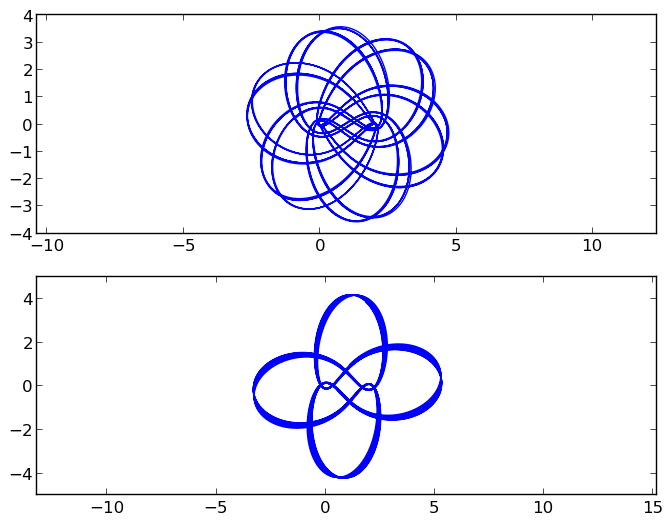
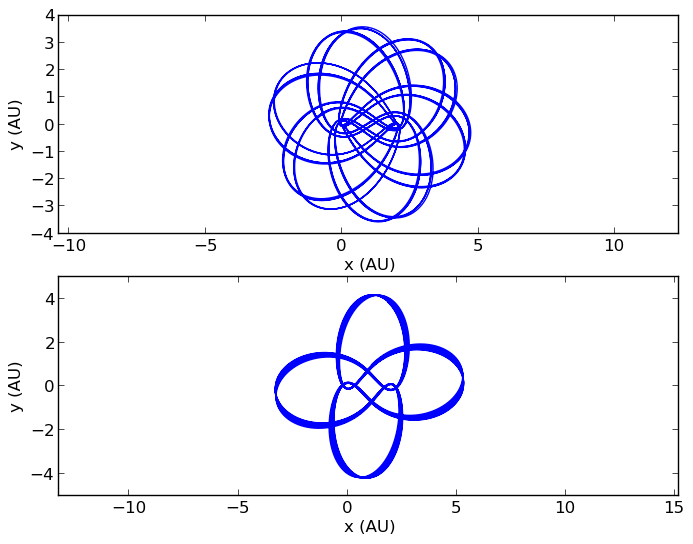
updated the plot labels

Changed region(s): [[0.0, 0.0, 0.9836, 0.979]]

diff --git a/Python-ODE-Int-NBody/two_planets.py b/Python-ODE-Int-NBody/two_planets.py
@@ -34,8 +34,8 @@ def main():
     # Plot the orbits
     plt.subplot(311)
     plt.axis("equal")
-    ut.plt2dcmpr(sim_d[:, XE], sim_d[:, YE], sim_d[:, XJ], sim_d[:, YJ],
-        ["r", "b"], ["Earth", "Jupiter"], "X", "Y", "Jupiter and Earth Orbit Simulation Results")
+    ut.plt2dcmpr(sim_d[:, 0], sim_d[:, 1], sim_d[:, 4], sim_d[:, 5],
+        ["r", "b"], ["Earth", "Jupiter"], "X (AU)", "Y (AU)", "Jupiter and Earth Orbit Simulation Results")
 
     # Calcualte the percent delta change for the energy and angular momentum.
     sim_perde = []

diff --git a/Python-ODE-Int-NBody/binary_system.py b/Python-ODE-Int-NBody/binary_system.py
@@ -24,12 +24,16 @@ def main():
     sim_d = simulate(binary_initial_cond1(), dt, t_0, t_max) 
     plt.subplot(211)
     plt.axis("equal")
+    plt.xlabel("x (AU)")
+    plt.ylabel("y (AU)")
     plt.plot(sim_d[:, 0], sim_d[:, 1])
 
     sim_d = simulate(binary_initial_cond2(), dt, t_0, t_max) 
     plt.subplot(212)
     plt.axis("equal")
     plt.plot(sim_d[:, 0], sim_d[:, 1])
+    plt.xlabel("x (AU)")
+    plt.ylabel("y (AU)")
     plt.savefig("kepler_orbits.png", bbox_inches="tight")
 
 def simulate(init_cond, dt, t_0, t_max):
